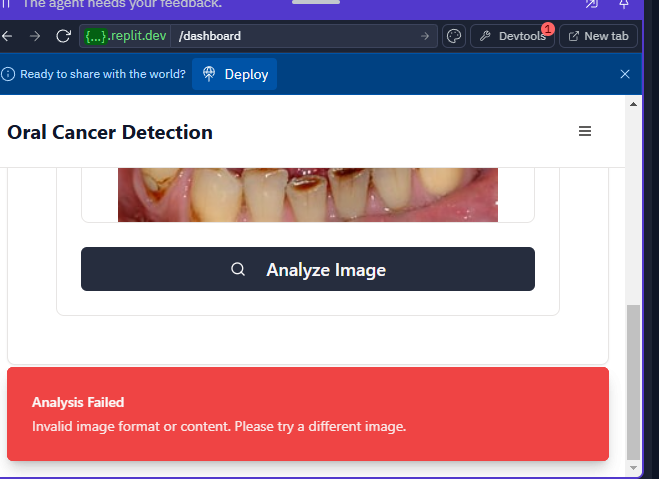
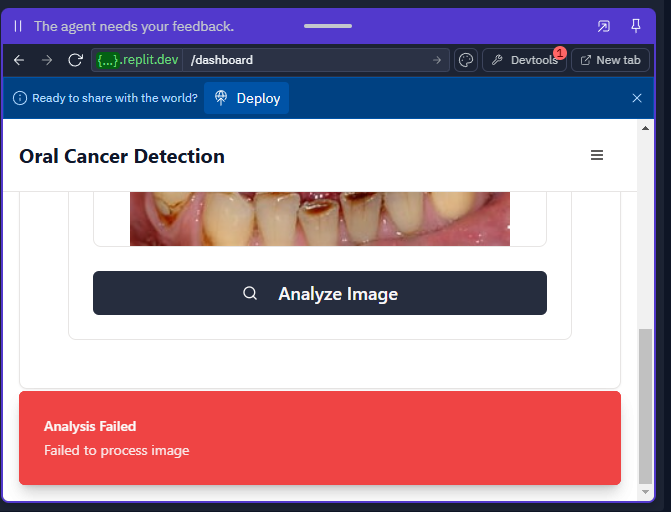
Agent query: Please try uploading an image again. I've completely reworked the image processing with proper validation and error handling.
Improve image upload validation and handling, adding support for specific image types and robust error handling.

Screenshot: https://storage.googleapis.com/screenshot-production-us-central1/542788b3-7641-4b1f-a472-fb03727e4f28/145cfdab-7a2b-48c8-bf9d-febc3e268185.jpg

diff --git a/server/routes.ts b/server/routes.ts
@@ -19,43 +19,44 @@ const anthropic = new Anthropic({
 // Upload and analyze image
 router.post("/api/analysis", async (req: Request, res: Response) => {
   try {
-    if (!req.files || Object.keys(req.files).length === 0) {
-      console.log("No files were uploaded");
-      return res.status(400).json({ error: "No files were uploaded" });
+    console.log("Received analysis request");
+    
+    if (!req.files || !req.files.image) {
+      console.log("No image file received");
+      return res.status(400).json({ error: "No image file received" });
     }
 
     const image = req.files.image as UploadedFile;
-    
+    console.log("Received file:", {
+      name: image.name,
+      type: image.mimetype,
+      size: image.size
+    });
+
     // Validate file type
-    if (!image.mimetype.startsWith('image/')) {
+    const validTypes = ['image/jpeg', 'image/png', 'image/gif', 'image/webp'];
+    if (!validTypes.includes(image.mimetype)) {
       console.log("Invalid file type:", image.mimetype);
-      return res.status(400).json({ error: "Invalid file type. Please upload an image." });
+      return res.status(400).json({ 
+        error: `Invalid file type. Supported types: ${validTypes.join(", ")}` 
+      });
     }
 
     // Validate file size (max 5MB)
     const maxSize = 5 * 1024 * 1024;
     if (image.size > maxSize) {
       console.log("File too large:", image.size);
-      return res.status(400).json({ error: "File too large. Maximum size is 5MB." });
+      return res.status(400).json({ 
+        error: "File too large. Maximum size is 5MB" 
+      });
     }
-
-    console.log("Processing image:", {
-      name: image.name,
-      type: image.mimetype,
-      size: image.size
-    });
 
     // Convert image to base64
     const base64Image = image.data.toString('base64');
-    
-    if (!base64Image) {
-      console.log("Failed to convert image to base64");
-      return res.status(400).json({ error: "Failed to process image" });
-    }
-
-    console.log("Image converted to base64 successfully");
+    console.log("Image converted to base64");
 
     // Send to Anthropic API
+    console.log("Sending request to Anthropic API");
     const response = await anthropic.messages.create({
       model: "claude-3-5-sonnet-20241022",
       max_tokens: 1024,
@@ -70,7 +71,7 @@ router.post("/api/analysis", async (req: Request, res: Response) => {
             type: "image",
             source: {
               type: "base64",
-              media_type: image.mimetype,
+              media_type: validTypes.includes(image.mimetype) ? image.mimetype : 'image/jpeg',
               data: base64Image
             }
           }
@@ -95,6 +96,7 @@ router.post("/api/analysis", async (req: Request, res: Response) => {
       analysisResult = JSON.parse(analysisText);
     } catch (error) {
       console.log("Failed to parse API response:", error);
+      // Extract result from text if JSON parsing fails
       analysisResult = {
         result: analysisText.includes('Concerning') ? 'Concerning' : 'Normal',
         confidence: 0.95,

diff --git a/client/src/components/ImageUpload.tsx b/client/src/components/ImageUpload.tsx
@@ -18,7 +18,7 @@ export default function ImageUpload() {
       toast({
         variant: "destructive",
         title: "Invalid File Type",
-        description: "Please select a JPEG, PNG, GIF, or WebP image file",
+        description: `Please select a valid image file (${validTypes.join(", ")})`,
       });
       return;
     }
